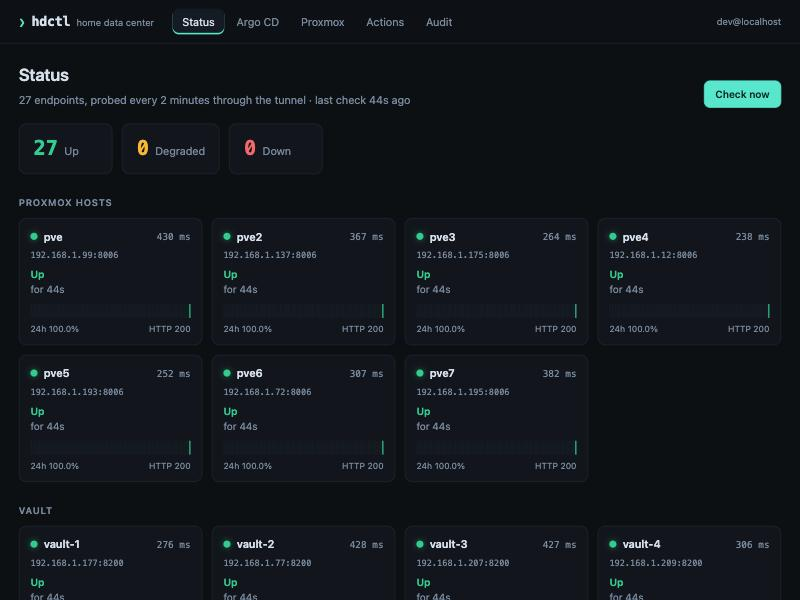
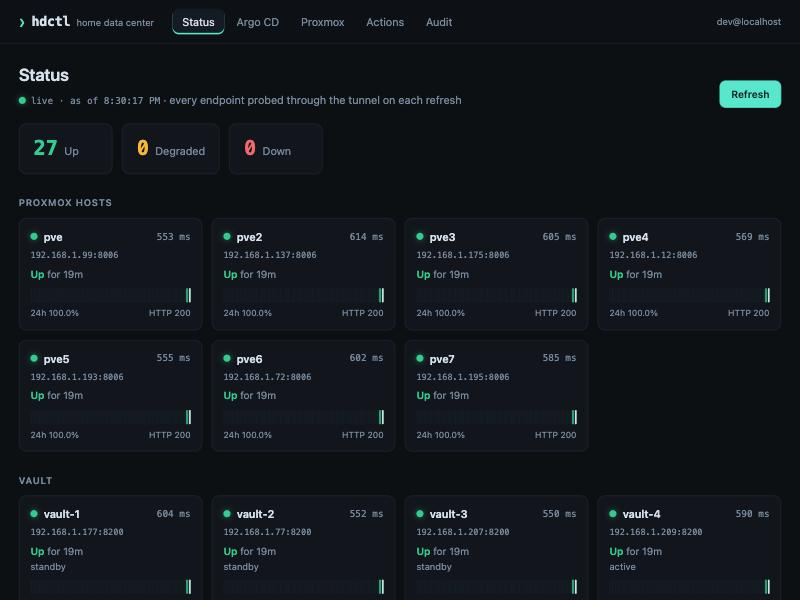
docs: refresh the Status screenshot for the live view

diff --git a/README.md b/README.md
@@ -16,7 +16,7 @@ history and the audit log), and KV is a cache that can't serve stale data (see
 isn't itself in the cluster.
 
 <p>
-  <img src="docs/status.jpg" alt="Status page: 27 endpoints, all up, grouped by Proxmox hosts and Vault" width="49%">
+  <img src="docs/status.jpg" alt="Status page: live as of 8:30 PM, 27 endpoints up, grouped by Proxmox hosts and Vault" width="49%">
   <img src="docs/proxmox.jpg" alt="Proxmox page: per-host CPU and RAM meters and a guest table with reboot and shut down buttons" width="49%">
 </p>
 
